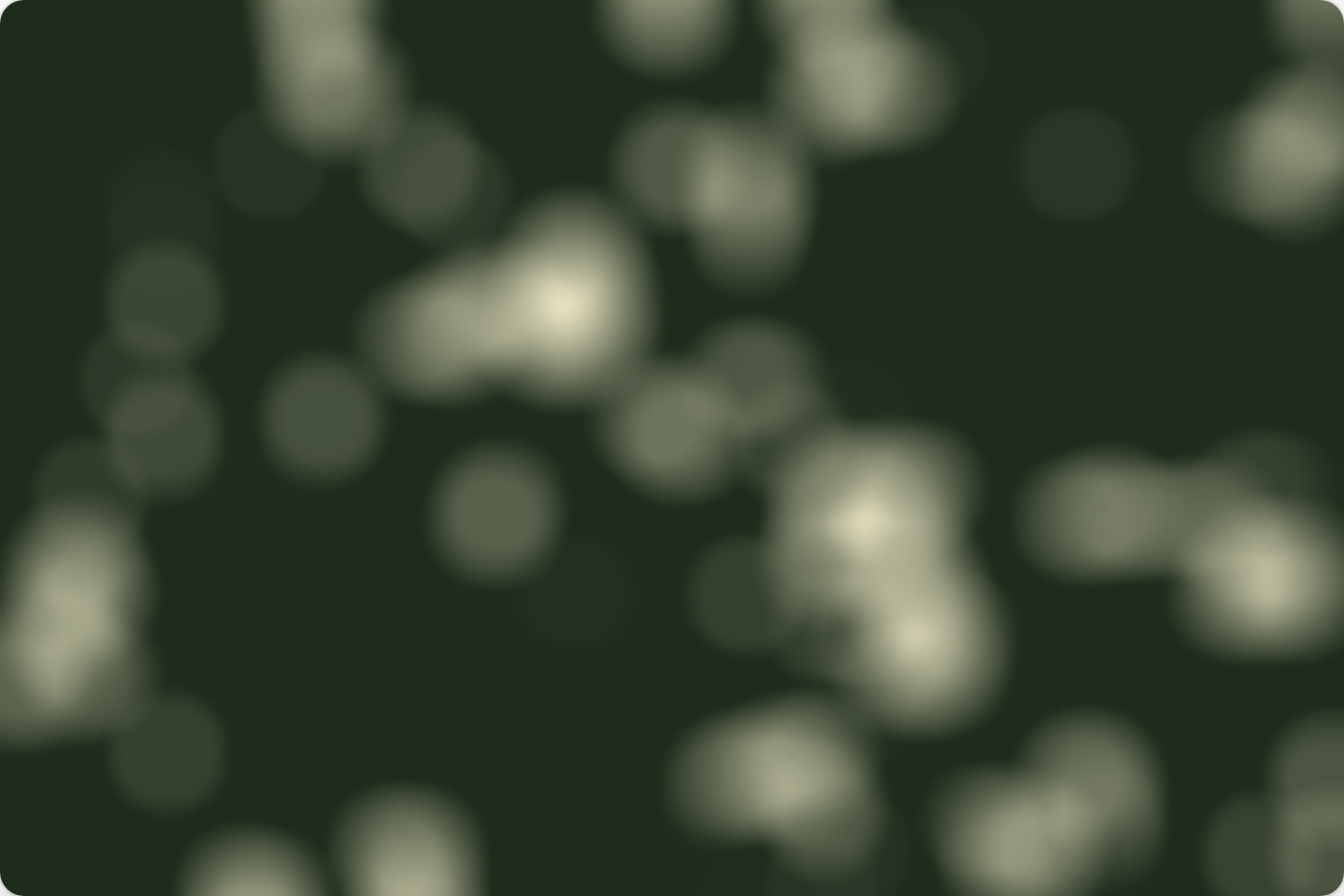
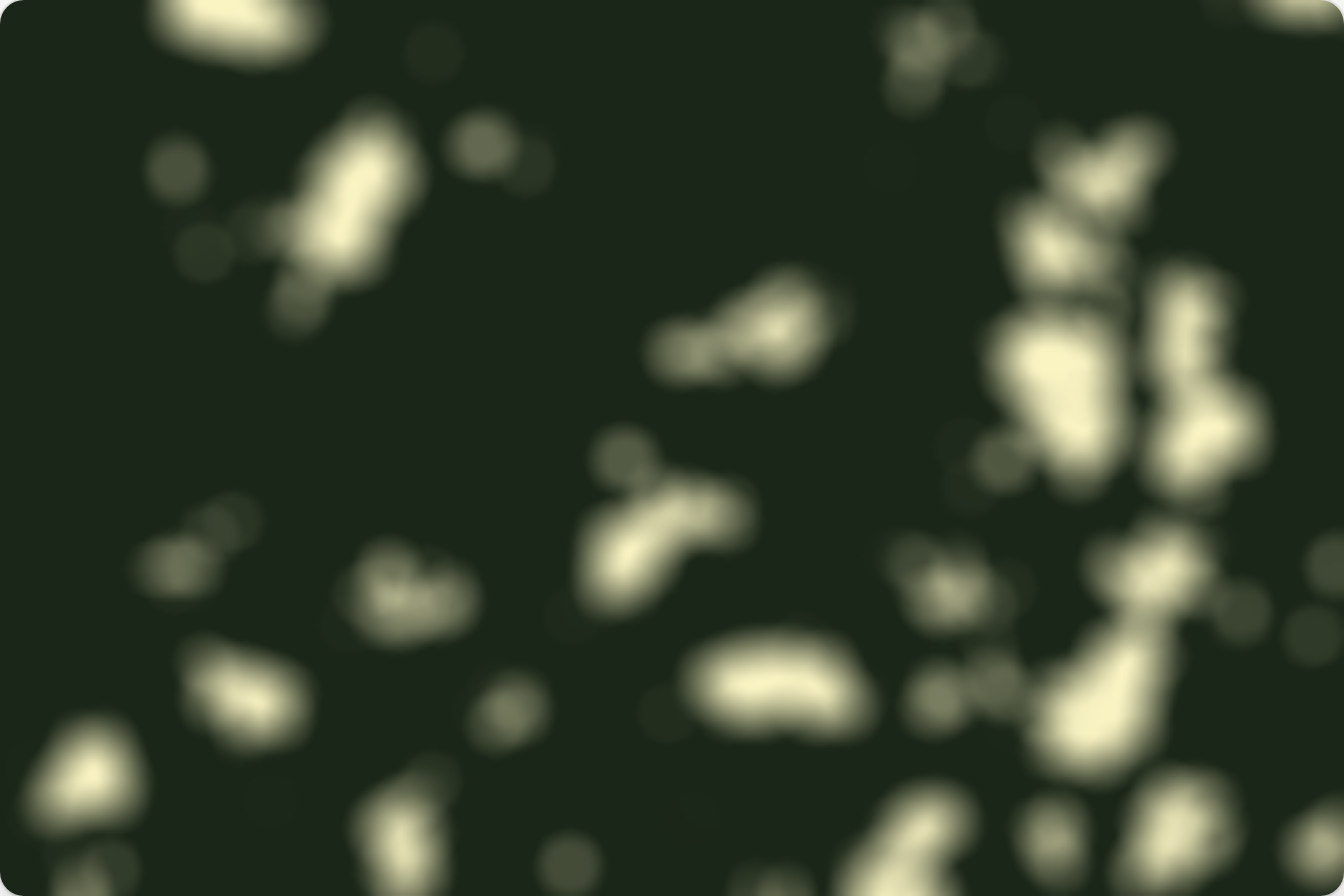
Make canopy leaf-like and wind sway instead of scroll
Replace the smooth value-noise canopy with domain-warped fBm plus a ridged
"branch" term, so the shadow reads as ragged, clustered foliage with twig-like
channels rather than a smooth blob. Wind is now a back-and-forth sway: an
oscillating per-row horizontal offset (with a gentle vertical bob) applied
during convolution, replacing the one-directional horizontal scroll.

Cache the fractal field so only regenerate/detail changes recompute it (gap
re-thresholds cheaply), and cache the sun kernel, keeping the animation cheap.

https://claude.ai/code/session_018yUzqmVfHck7RPrPr3v1Qi

diff --git a/src/components/LeafShadowSimulator.tsx b/src/components/LeafShadowSimulator.tsx
@@ -43,6 +43,54 @@ const valueNoise = (x: number, y: number, seed: number) => {
   return lerp(lerp(n00, n10, u), lerp(n01, n11, u), v);
 };
 
+// Fractal noise: stacking octaves adds the fine, self-similar structure that
+// reads as clustered foliage rather than one smooth blob.
+const OCTAVES = 5;
+const fbm = (x: number, y: number, seed: number) => {
+  let sum = 0;
+  let amp = 0.5;
+  let f = 1;
+  let norm = 0;
+  for (let o = 0; o < OCTAVES; o++) {
+    sum += amp * valueNoise(x * f, y * f, seed + o * 1013);
+    norm += amp;
+    f *= 2;
+    amp *= 0.5;
+  }
+  return sum / norm;
+};
+
+// Ridged noise folds the field at its midpoint into thin creases, standing in
+// for the darker twigs and branches threading through the leaves.
+const RIDGE_OCTAVES = 3;
+const ridged = (x: number, y: number, seed: number) => {
+  let sum = 0;
+  let amp = 0.5;
+  let f = 1;
+  let norm = 0;
+  for (let o = 0; o < RIDGE_OCTAVES; o++) {
+    const r = 1 - Math.abs(2 * valueNoise(x * f, y * f, seed + o * 131) - 1);
+    sum += amp * r * r;
+    norm += amp;
+    f *= 2;
+    amp *= 0.5;
+  }
+  return sum / norm;
+};
+
+// Canopy openness in [0,1] (high = a gap that lets light through). Domain
+// warping bends the fractal foliage into ragged, leaf-like clumps, and the
+// ridged branch term carves dark twig-like channels through it.
+const canopyOpenness = (u: number, v: number, seed: number) => {
+  const wx = valueNoise(u * 0.4 + 3.1, v * 0.4 + 1.7, seed ^ 0x1f3) - 0.5;
+  const wy = valueNoise(u * 0.4 + 8.3, v * 0.4 + 5.9, seed ^ 0x2a7) - 0.5;
+  const uu = u + 0.8 * wx;
+  const vv = v + 0.8 * wy;
+  const foliage = fbm(uu, vv, seed);
+  const branch = ridged(uu * 0.6 + 1.5, vv * 0.6, seed ^ 0x55);
+  return foliage - 0.7 * branch + 0.25;
+};
+
 // The sun's image is the convolution kernel. Default is a filled disk; an
 // eclipse subtracts an offset "moon" disk, leaving a crescent. Each row of the
 // kernel is stored as up to two integer column spans so the convolution can
@@ -114,82 +162,112 @@ const Slider: Component<SliderProps> = (props) => (
 const LeafShadowSimulator: Component = () => {
   let canvasRef!: HTMLCanvasElement;
 
-  const [spotSize, setSpotSize] = createSignal(0.55);
-  const [gap, setGap] = createSignal(0.4);
-  const [detail, setDetail] = createSignal(0.4);
+  const [spotSize, setSpotSize] = createSignal(0.3);
+  const [gap, setGap] = createSignal(0.42);
+  const [detail, setDetail] = createSignal(0.5);
   const [eclipse, setEclipse] = createSignal(0);
-  const [wind, setWind] = createSignal(0.3);
+  const [wind, setWind] = createSignal(0.35);
   const [playing, setPlaying] = createSignal(true);
 
   let seed = Math.floor(Math.random() * 1e6);
-  let windOffset = 0;
+  let windPhase = 0;
   let raf = 0;
   let lastTime = 0;
 
-  // Buffers allocated once.
-  const mask = new Float32Array(SIM_W * SIM_H);
-  const prefix = new Float32Array(SIM_H * (SIM_W + 1));
+  // Cache the kernel so the animation loop doesn't re-allocate its span arrays
+  // every frame; it only changes with sun-spot size or eclipse.
+  let kernel = buildKernel(8, 0);
+  let kRadius = -1;
+  let kEclipse = -1;
+  const getKernel = (radius: number, ecl: number) => {
+    if (radius !== kRadius || ecl !== kEclipse) {
+      kernel = buildKernel(radius, ecl);
+      kRadius = radius;
+      kEclipse = ecl;
+    }
+    return kernel;
+  };
+
+  // Buffers allocated once. `rawCanopy` caches the expensive fractal field so
+  // shading tweaks and wind animation never recompute it.
+  const stride = SIM_W + 1;
+  const rawCanopy = new Float32Array(SIM_W * SIM_H);
+  const prefix = new Float32Array(SIM_H * stride);
+  const rowShift = new Int32Array(SIM_H);
   let ctx: CanvasRenderingContext2D | null = null;
   let image: ImageData | null = null;
 
-  const draw = () => {
-    if (!ctx || !image) return;
-
-    const radius = Math.round(lerp(3, 30, spotSize()));
-    const threshold = lerp(0.78, 0.46, gap());
-    const freq = lerp(6, 26, detail());
-    const kernel = buildKernel(radius, eclipse());
-
-    // 1. Canopy occlusion mask: transmission in [0,1] (1 = open gap).
+  // Expensive (runs only on regenerate / detail change): evaluate the warped
+  // fractal foliage into the cache, then threshold it.
+  const computeCanopy = () => {
+    const freq = lerp(6, 24, detail());
     const aspect = SIM_H / SIM_W;
     for (let py = 0; py < SIM_H; py++) {
       const v = (py / SIM_H) * freq * aspect;
+      const base = py * SIM_W;
       for (let px = 0; px < SIM_W; px++) {
-        const u = (px / SIM_W) * freq + windOffset;
-        const n =
-          valueNoise(u, v, seed) * 0.65 +
-          valueNoise(u * 2.3 + 11.3, v * 2.3 + 5.7, seed ^ 0x9e37) * 0.35;
-        mask[py * SIM_W + px] = smoothstep(threshold, threshold + 0.05, n);
+        rawCanopy[base + px] = canopyOpenness((px / SIM_W) * freq, v, seed);
       }
     }
+    applyThreshold();
+  };
 
-    // 2. Per-row prefix sums for O(1) span lookups.
-    const stride = SIM_W + 1;
+  // Cheap (runs on gap change): turn the cached field into a transmission mask
+  // (1 = gap) and accumulate the per-row prefix sums the convolution reads.
+  const applyThreshold = () => {
+    const threshold = lerp(0.72, 0.5, gap());
     for (let py = 0; py < SIM_H; py++) {
+      const rBase = py * SIM_W;
       const pBase = py * stride;
-      const mBase = py * SIM_W;
       prefix[pBase] = 0;
       let acc = 0;
       for (let px = 0; px < SIM_W; px++) {
-        acc += mask[mBase + px];
+        acc += smoothstep(threshold, threshold + 0.04, rawCanopy[rBase + px]);
         prefix[pBase + px + 1] = acc;
       }
     }
+  };
 
-    // 3. Convolve canopy with the sun-shaped kernel.
-    const { spans, area, radius: r } = kernel;
+  // Per frame: convolve the cached canopy with the sun-shaped kernel. Wind is a
+  // back-and-forth sway — each source row gets an oscillating horizontal offset
+  // (plus a gentle vertical bob) so the foliage rocks in place rather than
+  // scrolling endlessly in one direction.
+  const draw = () => {
+    if (!ctx || !image) return;
+    const radius = Math.round(lerp(2, 26, spotSize()));
+    const { spans, area } = getKernel(radius, eclipse());
+
+    const ampX = wind() * 7;
+    for (let y = 0; y < SIM_H; y++) {
+      rowShift[y] = Math.round(Math.sin(windPhase * 1.6 + y * 0.045) * ampX);
+    }
+    const vBob = Math.round(Math.sin(windPhase * 1.1) * wind() * 3);
+
     const data = image.data;
     for (let py = 0; py < SIM_H; py++) {
       for (let px = 0; px < SIM_W; px++) {
         let sum = 0;
-        for (let dy = -r; dy <= r; dy++) {
-          const yy = clamp(py + dy, 0, SIM_H - 1);
-          const row = spans[dy + r];
+        for (let dy = -radius; dy <= radius; dy++) {
+          let yy = py + dy - vBob;
+          if (yy < 0) yy = 0;
+          else if (yy > SIM_H - 1) yy = SIM_H - 1;
+          const sx = rowShift[yy];
+          const row = spans[dy + radius];
           const pBase = yy * stride;
           for (let i = 0; i < row.length; i += 2) {
-            let lo = px + row[i];
-            let hi = px + row[i + 1];
+            let lo = px + row[i] - sx;
+            let hi = px + row[i + 1] - sx;
             if (hi < 0 || lo > SIM_W - 1) continue;
             if (lo < 0) lo = 0;
             if (hi > SIM_W - 1) hi = SIM_W - 1;
             sum += prefix[pBase + hi + 1] - prefix[pBase + lo];
           }
         }
-        const b = Math.pow(sum / area, 0.75);
+        const b = Math.pow(sum / area, 0.8);
         const idx = (py * SIM_W + px) * 4;
-        data[idx] = lerp(30, 255, b);
-        data[idx + 1] = lerp(44, 248, b);
-        data[idx + 2] = lerp(28, 222, b * 0.95);
+        data[idx] = lerp(26, 250, b);
+        data[idx + 1] = lerp(38, 244, b);
+        data[idx + 2] = lerp(24, 210, b * 0.92);
         data[idx + 3] = 255;
       }
     }
@@ -199,7 +277,7 @@ const LeafShadowSimulator: Component = () => {
   const loop = (time: number) => {
     const dt = lastTime ? (time - lastTime) / 1000 : 0;
     lastTime = time;
-    windOffset += wind() * dt * 1.2;
+    windPhase += dt;
     draw();
     if (playing()) raf = requestAnimationFrame(loop);
   };
@@ -219,13 +297,28 @@ const LeafShadowSimulator: Component = () => {
 
   const regenerate = () => {
     seed = Math.floor(Math.random() * 1e6);
+    computeCanopy();
     if (!playing()) draw();
   };
 
-  // When a control changes while paused, redraw immediately.
-  const onControl = (setter: (v: number) => void) => (v: number) => {
-    setter(v);
+  // While paused, redraw immediately. `detail` reshapes the foliage so it
+  // rebuilds the cache; `gap` only re-thresholds it; the rest just re-shade.
+  const redrawIfPaused = () => {
     if (!playing()) draw();
+  };
+  const onDetail = (v: number) => {
+    setDetail(v);
+    computeCanopy();
+    redrawIfPaused();
+  };
+  const onGap = (v: number) => {
+    setGap(v);
+    applyThreshold();
+    redrawIfPaused();
+  };
+  const onShade = (setter: (v: number) => void) => (v: number) => {
+    setter(v);
+    redrawIfPaused();
   };
 
   onMount(() => {
@@ -233,6 +326,7 @@ const LeafShadowSimulator: Component = () => {
     canvasRef.height = SIM_H;
     ctx = canvasRef.getContext("2d");
     if (ctx) image = ctx.createImageData(SIM_W, SIM_H);
+    computeCanopy();
     draw();
     if (playing()) startLoop();
   });
@@ -248,7 +342,7 @@ const LeafShadowSimulator: Component = () => {
         min={0}
         max={1}
         step={0.01}
-        onInput={onControl(setSpotSize)}
+        onInput={onShade(setSpotSize)}
       />
       <Slider
         label="Gap size"
@@ -257,7 +351,7 @@ const LeafShadowSimulator: Component = () => {
         min={0}
         max={1}
         step={0.01}
-        onInput={onControl(setGap)}
+        onInput={onGap}
       />
       <Slider
         label="Leaf detail"
@@ -266,7 +360,7 @@ const LeafShadowSimulator: Component = () => {
         min={0}
         max={1}
         step={0.01}
-        onInput={onControl(setDetail)}
+        onInput={onDetail}
       />
       <Slider
         label="Eclipse"
@@ -275,7 +369,7 @@ const LeafShadowSimulator: Component = () => {
         min={0}
         max={1}
         step={0.01}
-        onInput={onControl(setEclipse)}
+        onInput={onShade(setEclipse)}
       />
       <Slider
         label="Wind"
@@ -284,7 +378,7 @@ const LeafShadowSimulator: Component = () => {
         min={0}
         max={1}
         step={0.01}
-        onInput={onControl(setWind)}
+        onInput={onShade(setWind)}
       />
       <div class="flex items-end gap-2">
         <button
